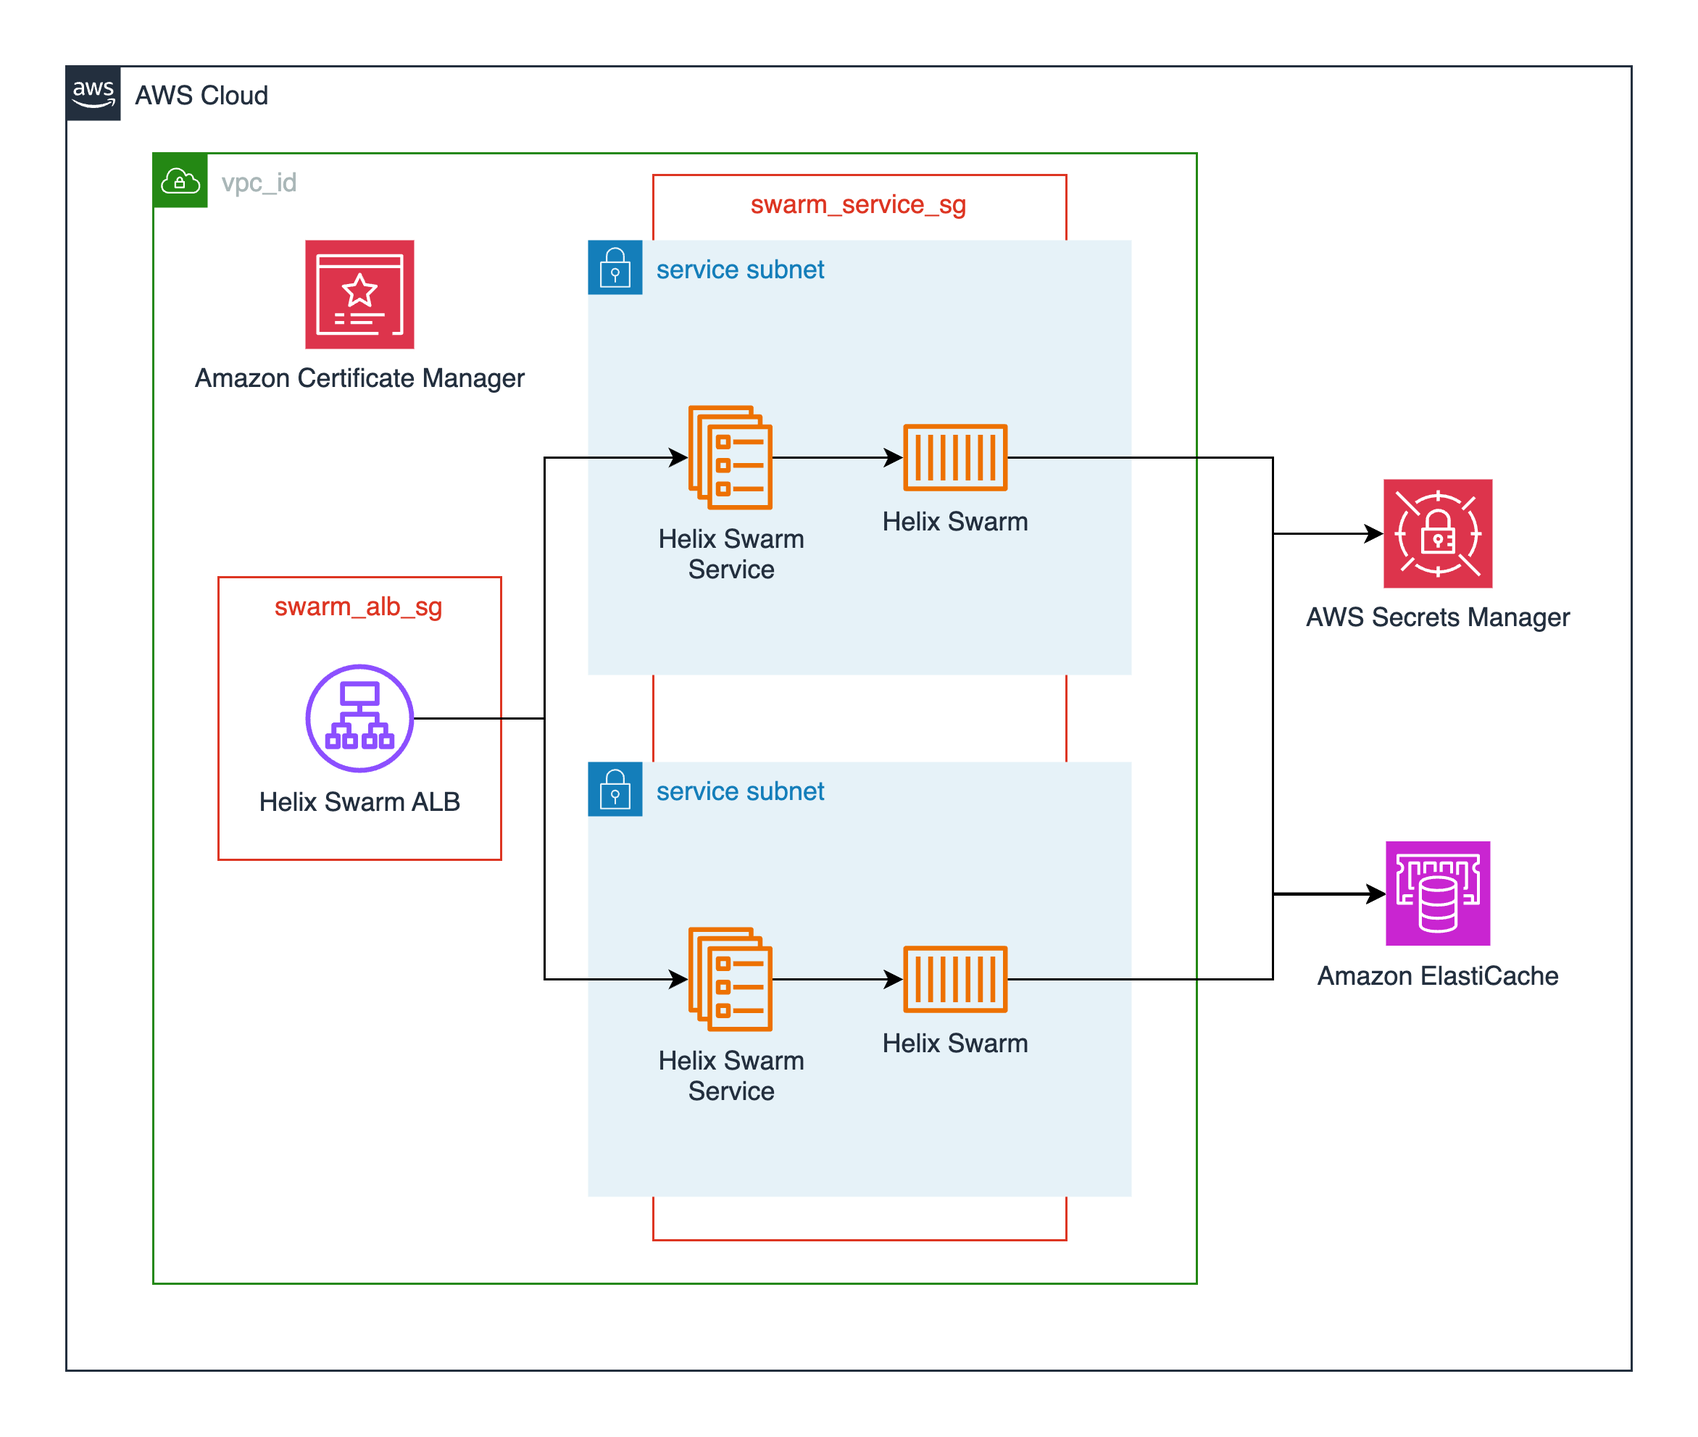
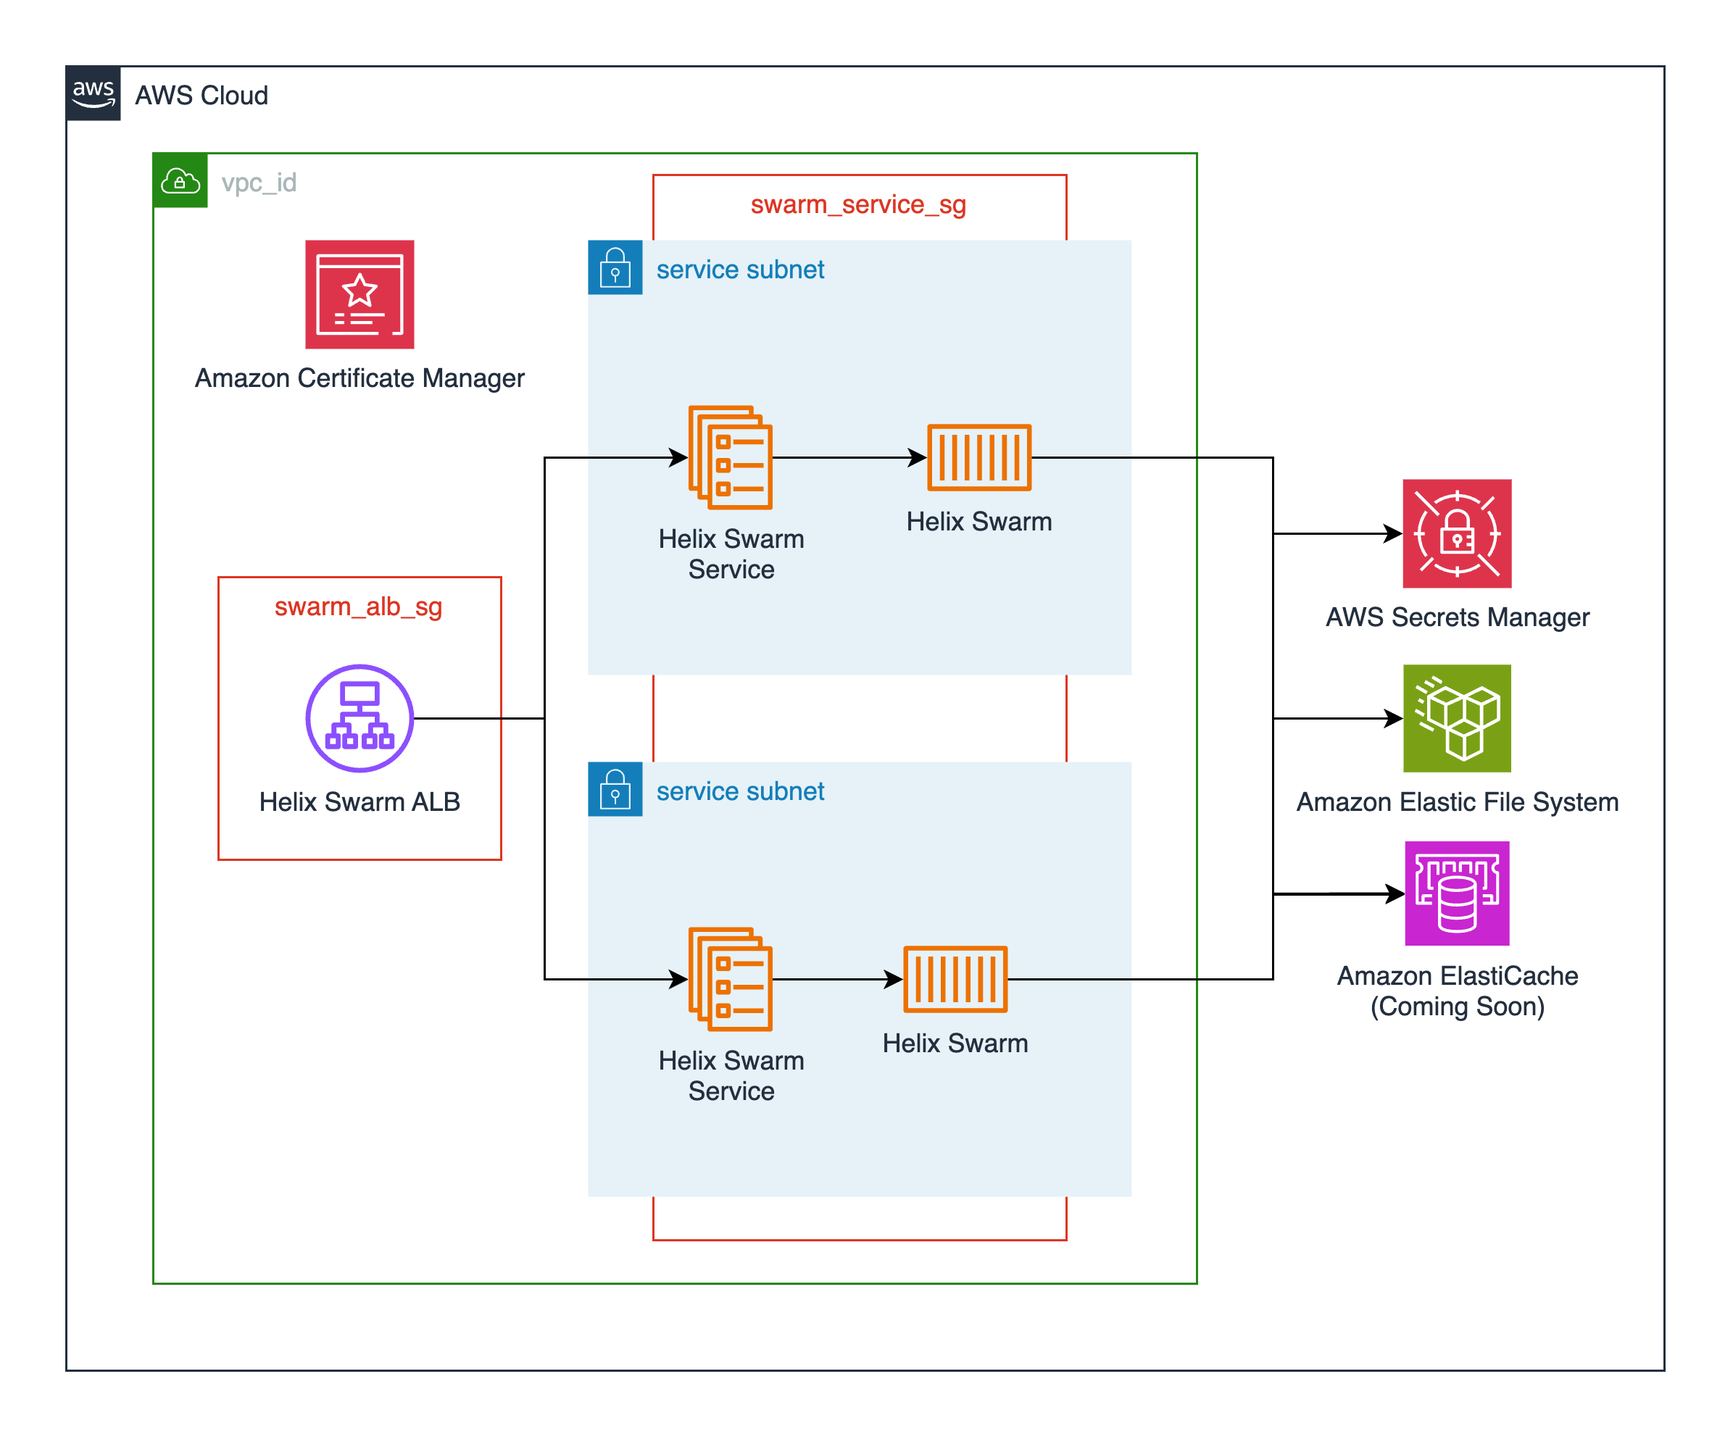
Updating documentation for Helix Swarm to include EFS

diff --git a/modules/perforce/helix-swarm/README.md b/modules/perforce/helix-swarm/README.md
@@ -6,7 +6,7 @@
 | Name | Version |
 |------|---------|
 | <a name="requirement_terraform"></a> [terraform](#requirement\_terraform) | >= 1.0 |
-| <a name="requirement_aws"></a> [aws](#requirement\_aws) | 5.82.2 |
+| <a name="requirement_aws"></a> [aws](#requirement\_aws) | 5.84.0 |
 | <a name="requirement_random"></a> [random](#requirement\_random) | 3.6.3 |
 
 ## Providers
@@ -24,48 +24,48 @@ No modules.
 
 | Name | Type |
 |------|------|
-| [aws_cloudwatch_log_group.helix_swarm_redis_service_log_group](https://registry.terraform.io/providers/hashicorp/aws/5.82.2/docs/resources/cloudwatch_log_group) | resource |
-| [aws_cloudwatch_log_group.helix_swarm_service_log_group](https://registry.terraform.io/providers/hashicorp/aws/5.82.2/docs/resources/cloudwatch_log_group) | resource |
-| [aws_ecs_cluster.helix_swarm_cluster](https://registry.terraform.io/providers/hashicorp/aws/5.82.2/docs/resources/ecs_cluster) | resource |
-| [aws_ecs_cluster_capacity_providers.helix_swarm_cluster_fargate_providers](https://registry.terraform.io/providers/hashicorp/aws/5.82.2/docs/resources/ecs_cluster_capacity_providers) | resource |
-| [aws_ecs_service.helix_swarm_service](https://registry.terraform.io/providers/hashicorp/aws/5.82.2/docs/resources/ecs_service) | resource |
-| [aws_ecs_task_definition.helix_swarm_task_definition](https://registry.terraform.io/providers/hashicorp/aws/5.82.2/docs/resources/ecs_task_definition) | resource |
-| [aws_efs_access_point.helix_swarm](https://registry.terraform.io/providers/hashicorp/aws/5.82.2/docs/resources/efs_access_point) | resource |
-| [aws_efs_backup_policy.helix_swarm](https://registry.terraform.io/providers/hashicorp/aws/5.82.2/docs/resources/efs_backup_policy) | resource |
-| [aws_efs_file_system.helix_swarm](https://registry.terraform.io/providers/hashicorp/aws/5.82.2/docs/resources/efs_file_system) | resource |
-| [aws_efs_mount_target.helix_swarm](https://registry.terraform.io/providers/hashicorp/aws/5.82.2/docs/resources/efs_mount_target) | resource |
-| [aws_elasticache_cluster.swarm](https://registry.terraform.io/providers/hashicorp/aws/5.82.2/docs/resources/elasticache_cluster) | resource |
-| [aws_elasticache_subnet_group.swarm](https://registry.terraform.io/providers/hashicorp/aws/5.82.2/docs/resources/elasticache_subnet_group) | resource |
-| [aws_iam_policy.helix_swarm_default_policy](https://registry.terraform.io/providers/hashicorp/aws/5.82.2/docs/resources/iam_policy) | resource |
-| [aws_iam_policy.helix_swarm_ssm_policy](https://registry.terraform.io/providers/hashicorp/aws/5.82.2/docs/resources/iam_policy) | resource |
-| [aws_iam_role.helix_swarm_default_role](https://registry.terraform.io/providers/hashicorp/aws/5.82.2/docs/resources/iam_role) | resource |
-| [aws_iam_role.helix_swarm_task_execution_role](https://registry.terraform.io/providers/hashicorp/aws/5.82.2/docs/resources/iam_role) | resource |
-| [aws_lb.helix_swarm_alb](https://registry.terraform.io/providers/hashicorp/aws/5.82.2/docs/resources/lb) | resource |
-| [aws_lb_listener.swarm_alb_https_listener](https://registry.terraform.io/providers/hashicorp/aws/5.82.2/docs/resources/lb_listener) | resource |
-| [aws_lb_target_group.helix_swarm_alb_target_group](https://registry.terraform.io/providers/hashicorp/aws/5.82.2/docs/resources/lb_target_group) | resource |
-| [aws_s3_bucket.helix_swarm_alb_access_logs_bucket](https://registry.terraform.io/providers/hashicorp/aws/5.82.2/docs/resources/s3_bucket) | resource |
-| [aws_s3_bucket_lifecycle_configuration.access_logs_bucket_lifecycle_configuration](https://registry.terraform.io/providers/hashicorp/aws/5.82.2/docs/resources/s3_bucket_lifecycle_configuration) | resource |
-| [aws_s3_bucket_policy.alb_access_logs_bucket_policy](https://registry.terraform.io/providers/hashicorp/aws/5.82.2/docs/resources/s3_bucket_policy) | resource |
-| [aws_s3_bucket_public_access_block.access_logs_bucket_public_block](https://registry.terraform.io/providers/hashicorp/aws/5.82.2/docs/resources/s3_bucket_public_access_block) | resource |
-| [aws_security_group.helix_swarm_alb_sg](https://registry.terraform.io/providers/hashicorp/aws/5.82.2/docs/resources/security_group) | resource |
-| [aws_security_group.helix_swarm_elasticache_sg](https://registry.terraform.io/providers/hashicorp/aws/5.82.2/docs/resources/security_group) | resource |
-| [aws_security_group.helix_swarm_service_sg](https://registry.terraform.io/providers/hashicorp/aws/5.82.2/docs/resources/security_group) | resource |
-| [aws_security_group.swarm_efs](https://registry.terraform.io/providers/hashicorp/aws/5.82.2/docs/resources/security_group) | resource |
-| [aws_vpc_security_group_egress_rule.helix_swarm_alb_outbound_service](https://registry.terraform.io/providers/hashicorp/aws/5.82.2/docs/resources/vpc_security_group_egress_rule) | resource |
-| [aws_vpc_security_group_egress_rule.helix_swarm_service_outbound_ipv4](https://registry.terraform.io/providers/hashicorp/aws/5.82.2/docs/resources/vpc_security_group_egress_rule) | resource |
-| [aws_vpc_security_group_egress_rule.helix_swarm_service_outbound_ipv6](https://registry.terraform.io/providers/hashicorp/aws/5.82.2/docs/resources/vpc_security_group_egress_rule) | resource |
-| [aws_vpc_security_group_ingress_rule.helix_swarm_efs_inbound_service](https://registry.terraform.io/providers/hashicorp/aws/5.82.2/docs/resources/vpc_security_group_ingress_rule) | resource |
-| [aws_vpc_security_group_ingress_rule.helix_swarm_elasticache_ingress](https://registry.terraform.io/providers/hashicorp/aws/5.82.2/docs/resources/vpc_security_group_ingress_rule) | resource |
-| [aws_vpc_security_group_ingress_rule.helix_swarm_service_inbound_alb](https://registry.terraform.io/providers/hashicorp/aws/5.82.2/docs/resources/vpc_security_group_ingress_rule) | resource |
+| [aws_cloudwatch_log_group.helix_swarm_redis_service_log_group](https://registry.terraform.io/providers/hashicorp/aws/5.84.0/docs/resources/cloudwatch_log_group) | resource |
+| [aws_cloudwatch_log_group.helix_swarm_service_log_group](https://registry.terraform.io/providers/hashicorp/aws/5.84.0/docs/resources/cloudwatch_log_group) | resource |
+| [aws_ecs_cluster.helix_swarm_cluster](https://registry.terraform.io/providers/hashicorp/aws/5.84.0/docs/resources/ecs_cluster) | resource |
+| [aws_ecs_cluster_capacity_providers.helix_swarm_cluster_fargate_providers](https://registry.terraform.io/providers/hashicorp/aws/5.84.0/docs/resources/ecs_cluster_capacity_providers) | resource |
+| [aws_ecs_service.helix_swarm_service](https://registry.terraform.io/providers/hashicorp/aws/5.84.0/docs/resources/ecs_service) | resource |
+| [aws_ecs_task_definition.helix_swarm_task_definition](https://registry.terraform.io/providers/hashicorp/aws/5.84.0/docs/resources/ecs_task_definition) | resource |
+| [aws_efs_access_point.helix_swarm](https://registry.terraform.io/providers/hashicorp/aws/5.84.0/docs/resources/efs_access_point) | resource |
+| [aws_efs_backup_policy.helix_swarm](https://registry.terraform.io/providers/hashicorp/aws/5.84.0/docs/resources/efs_backup_policy) | resource |
+| [aws_efs_file_system.helix_swarm](https://registry.terraform.io/providers/hashicorp/aws/5.84.0/docs/resources/efs_file_system) | resource |
+| [aws_efs_mount_target.helix_swarm](https://registry.terraform.io/providers/hashicorp/aws/5.84.0/docs/resources/efs_mount_target) | resource |
+| [aws_elasticache_cluster.swarm](https://registry.terraform.io/providers/hashicorp/aws/5.84.0/docs/resources/elasticache_cluster) | resource |
+| [aws_elasticache_subnet_group.swarm](https://registry.terraform.io/providers/hashicorp/aws/5.84.0/docs/resources/elasticache_subnet_group) | resource |
+| [aws_iam_policy.helix_swarm_default_policy](https://registry.terraform.io/providers/hashicorp/aws/5.84.0/docs/resources/iam_policy) | resource |
+| [aws_iam_policy.helix_swarm_ssm_policy](https://registry.terraform.io/providers/hashicorp/aws/5.84.0/docs/resources/iam_policy) | resource |
+| [aws_iam_role.helix_swarm_default_role](https://registry.terraform.io/providers/hashicorp/aws/5.84.0/docs/resources/iam_role) | resource |
+| [aws_iam_role.helix_swarm_task_execution_role](https://registry.terraform.io/providers/hashicorp/aws/5.84.0/docs/resources/iam_role) | resource |
+| [aws_lb.helix_swarm_alb](https://registry.terraform.io/providers/hashicorp/aws/5.84.0/docs/resources/lb) | resource |
+| [aws_lb_listener.swarm_alb_https_listener](https://registry.terraform.io/providers/hashicorp/aws/5.84.0/docs/resources/lb_listener) | resource |
+| [aws_lb_target_group.helix_swarm_alb_target_group](https://registry.terraform.io/providers/hashicorp/aws/5.84.0/docs/resources/lb_target_group) | resource |
+| [aws_s3_bucket.helix_swarm_alb_access_logs_bucket](https://registry.terraform.io/providers/hashicorp/aws/5.84.0/docs/resources/s3_bucket) | resource |
+| [aws_s3_bucket_lifecycle_configuration.access_logs_bucket_lifecycle_configuration](https://registry.terraform.io/providers/hashicorp/aws/5.84.0/docs/resources/s3_bucket_lifecycle_configuration) | resource |
+| [aws_s3_bucket_policy.alb_access_logs_bucket_policy](https://registry.terraform.io/providers/hashicorp/aws/5.84.0/docs/resources/s3_bucket_policy) | resource |
+| [aws_s3_bucket_public_access_block.access_logs_bucket_public_block](https://registry.terraform.io/providers/hashicorp/aws/5.84.0/docs/resources/s3_bucket_public_access_block) | resource |
+| [aws_security_group.helix_swarm_alb_sg](https://registry.terraform.io/providers/hashicorp/aws/5.84.0/docs/resources/security_group) | resource |
+| [aws_security_group.helix_swarm_elasticache_sg](https://registry.terraform.io/providers/hashicorp/aws/5.84.0/docs/resources/security_group) | resource |
+| [aws_security_group.helix_swarm_service_sg](https://registry.terraform.io/providers/hashicorp/aws/5.84.0/docs/resources/security_group) | resource |
+| [aws_security_group.swarm_efs](https://registry.terraform.io/providers/hashicorp/aws/5.84.0/docs/resources/security_group) | resource |
+| [aws_vpc_security_group_egress_rule.helix_swarm_alb_outbound_service](https://registry.terraform.io/providers/hashicorp/aws/5.84.0/docs/resources/vpc_security_group_egress_rule) | resource |
+| [aws_vpc_security_group_egress_rule.helix_swarm_service_outbound_ipv4](https://registry.terraform.io/providers/hashicorp/aws/5.84.0/docs/resources/vpc_security_group_egress_rule) | resource |
+| [aws_vpc_security_group_egress_rule.helix_swarm_service_outbound_ipv6](https://registry.terraform.io/providers/hashicorp/aws/5.84.0/docs/resources/vpc_security_group_egress_rule) | resource |
+| [aws_vpc_security_group_ingress_rule.helix_swarm_efs_inbound_service](https://registry.terraform.io/providers/hashicorp/aws/5.84.0/docs/resources/vpc_security_group_ingress_rule) | resource |
+| [aws_vpc_security_group_ingress_rule.helix_swarm_elasticache_ingress](https://registry.terraform.io/providers/hashicorp/aws/5.84.0/docs/resources/vpc_security_group_ingress_rule) | resource |
+| [aws_vpc_security_group_ingress_rule.helix_swarm_service_inbound_alb](https://registry.terraform.io/providers/hashicorp/aws/5.84.0/docs/resources/vpc_security_group_ingress_rule) | resource |
 | [random_string.helix_swarm](https://registry.terraform.io/providers/hashicorp/random/3.6.3/docs/resources/string) | resource |
 | [random_string.helix_swarm_alb_access_logs_bucket_suffix](https://registry.terraform.io/providers/hashicorp/random/3.6.3/docs/resources/string) | resource |
-| [aws_ecs_cluster.helix_swarm_cluster](https://registry.terraform.io/providers/hashicorp/aws/5.82.2/docs/data-sources/ecs_cluster) | data source |
-| [aws_elb_service_account.main](https://registry.terraform.io/providers/hashicorp/aws/5.82.2/docs/data-sources/elb_service_account) | data source |
-| [aws_iam_policy_document.access_logs_bucket_alb_write](https://registry.terraform.io/providers/hashicorp/aws/5.82.2/docs/data-sources/iam_policy_document) | data source |
-| [aws_iam_policy_document.ecs_tasks_trust_relationship](https://registry.terraform.io/providers/hashicorp/aws/5.82.2/docs/data-sources/iam_policy_document) | data source |
-| [aws_iam_policy_document.helix_swarm_default_policy](https://registry.terraform.io/providers/hashicorp/aws/5.82.2/docs/data-sources/iam_policy_document) | data source |
-| [aws_iam_policy_document.helix_swarm_ssm_policy](https://registry.terraform.io/providers/hashicorp/aws/5.82.2/docs/data-sources/iam_policy_document) | data source |
-| [aws_region.current](https://registry.terraform.io/providers/hashicorp/aws/5.82.2/docs/data-sources/region) | data source |
+| [aws_ecs_cluster.helix_swarm_cluster](https://registry.terraform.io/providers/hashicorp/aws/5.84.0/docs/data-sources/ecs_cluster) | data source |
+| [aws_elb_service_account.main](https://registry.terraform.io/providers/hashicorp/aws/5.84.0/docs/data-sources/elb_service_account) | data source |
+| [aws_iam_policy_document.access_logs_bucket_alb_write](https://registry.terraform.io/providers/hashicorp/aws/5.84.0/docs/data-sources/iam_policy_document) | data source |
+| [aws_iam_policy_document.ecs_tasks_trust_relationship](https://registry.terraform.io/providers/hashicorp/aws/5.84.0/docs/data-sources/iam_policy_document) | data source |
+| [aws_iam_policy_document.helix_swarm_default_policy](https://registry.terraform.io/providers/hashicorp/aws/5.84.0/docs/data-sources/iam_policy_document) | data source |
+| [aws_iam_policy_document.helix_swarm_ssm_policy](https://registry.terraform.io/providers/hashicorp/aws/5.84.0/docs/data-sources/iam_policy_document) | data source |
+| [aws_region.current](https://registry.terraform.io/providers/hashicorp/aws/5.84.0/docs/data-sources/region) | data source |
 
 ## Inputs
 

diff --git a/docs/modules/perforce/helix-swarm/helix-swarm.md b/docs/modules/perforce/helix-swarm/helix-swarm.md
@@ -7,26 +7,42 @@ description: Helix Swarm Terraform Module for AWS
 
 [Jump to Terraform docs](./terraform-docs.md){ .md-button .md-button--primary }
 
-[Perforce Helix Swarm](https://www.perforce.com/products/helix-swarm) is a free code review tool for projects hosted in [Perforce Helix Core](https://www.perforce.com/products/helix-core). This module deploys Helix Swarm as a service on AWS Elastic Container Service using the [publicly available image from Dockerhub](https://hub.docker.com/r/perforce/helix-swarm).
+[Perforce Helix Swarm](https://www.perforce.com/products/helix-swarm) is a free code review tool for projects hosted
+in [Perforce Helix Core](https://www.perforce.com/products/helix-core). This module deploys Helix Swarm as a service on
+AWS Elastic Container Service using
+the [publicly available image from Dockerhub](https://hub.docker.com/r/perforce/helix-swarm).
 
-Helix Swarm also relies on a Redis cache. The module provisions a single node AWS Elasticache Redis OSS cluster and configures connectivity for the Helix Swarm service.
+Helix Swarm also relies on a Redis cache. The module provisions a single node AWS Elasticache Redis OSS cluster and
+configures connectivity for the Helix Swarm service.
 
 This module deploys the following resources:
 
-- An Elastic Container Service (ECS) cluster backed by AWS Fargate. This can also be created externally and passed in via the `cluster_name` variable.
-- An ECS service running the latest Helix Swarm container ([perforce/helix-swarm](https://hub.docker.com/r/perforce/helix-swarm)) available.
+- An Elastic Container Service (ECS) cluster backed by AWS Fargate. This can also be created externally and passed in
+  via the `cluster_name` variable.
+- An ECS service running the latest Helix Swarm
+  container ([perforce/helix-swarm](https://hub.docker.com/r/perforce/helix-swarm)) available.
 - An Application Load Balancer for TLS termination of the Helix Swarm service.
+- An [Amazon Elastic File System](https://aws.amazon.com/efs/) for persistent storage of the Helix Swarm data directory.
 - A single node [AWS Elasticache Redis OSS](https://aws.amazon.com/elasticache/redis/) cluster.
 - Supporting resources such as Cloudwatch log groups, IAM roles, and security groups.
 
 ## Deployment Architecture
-![Helix Swarm Module Architecture](../../../media/images/helix-swarm-architecture.png){: style="max-width:100%;max-height:100vh;margin:auto"}
+
+![Helix Swarm Module Architecture](../../../media/images/helix-swarm-architecture.png){: style="max-width:
+100%;max-height:100vh;margin:auto"}
 
 ## Prerequisites
 
-Perforce Helix Swarm needs to be able to connect to a Perforce Helix Core server. Helix Swarm leverages the same authentication mechanism as Helix Core, and needs to install required plugins on the upstream Helix Core instance during setup. This happens automatically, but Swarm requires an administrative user's credentials to be able to initially connect. These credentials are provided to the module through variables specifying AWS Secrets Manager secrets, and then pulled into the Helix Swarm container during startup. See the `p4d_super_user_arn`, `p4d_super_user_password_arn`, `p4d_swarm_user_arn`, and `p4d_swarm_password_arn` variables below for more details.
+Perforce Helix Swarm needs to be able to connect to a Perforce Helix Core server. Helix Swarm leverages the same
+authentication mechanism as Helix Core, and needs to install required plugins on the upstream Helix Core instance during
+setup. This happens automatically, but Swarm requires an administrative user's credentials to be able to initially
+connect. These credentials are provided to the module through variables specifying AWS Secrets Manager secrets, and then
+pulled into the Helix Swarm container during startup. See the `p4d_super_user_arn`, `p4d_super_user_password_arn`,
+`p4d_swarm_user_arn`, and `p4d_swarm_password_arn` variables below for more details.
 
-The [Helix Core module](../helix-core/helix-core.md) creates an administrative user on initial deployment, and stores the credentials in AWS Secrets manager. The ARN of the credentials secret is then made available as a Terraform output from the module, and can be referenced elsewhere.
+The [Helix Core module](../helix-core/helix-core.md) creates an administrative user on initial deployment, and stores
+the credentials in AWS Secrets manager. The ARN of the credentials secret is then made available as a Terraform output
+from the module, and can be referenced elsewhere.
 
 Should you need to manually create the administrative user secret the following AWS CLI command may prove useful:
 
@@ -37,13 +53,14 @@ aws secretsmanager create-secret \
     --secret-string "{\"username\":\"swarm\",\"password\":\"EXAMPLE-PASSWORD\"}"
 ```
 
-You can then provide these credentials as variables when you define the Helix Swarm module in your terraform configurations:
+You can then provide these credentials as variables when you define the Helix Swarm module in your terraform
+configurations:
 
 ```hcl
 module "perforce_helix_swarm" {
-    source = "modules/perforce/helix-swarm"
-    ...
-    p4d_super_user_arn = "arn:aws:secretsmanager:us-west-2:123456789012:secret:HelixSwarmSuperUser-a1b2c3:username::"
-    p4d_super_user_password_arn = "arn:aws:secretsmanager:us-west-2:123456789012:secret:HelixSwarmSuperUser-a1b2c3:password::"
+  source                      = "modules/perforce/helix-swarm"
+  ...
+  p4d_super_user_arn          = "arn:aws:secretsmanager:us-west-2:123456789012:secret:HelixSwarmSuperUser-a1b2c3:username::"
+  p4d_super_user_password_arn = "arn:aws:secretsmanager:us-west-2:123456789012:secret:HelixSwarmSuperUser-a1b2c3:password::"
 }
 ```
